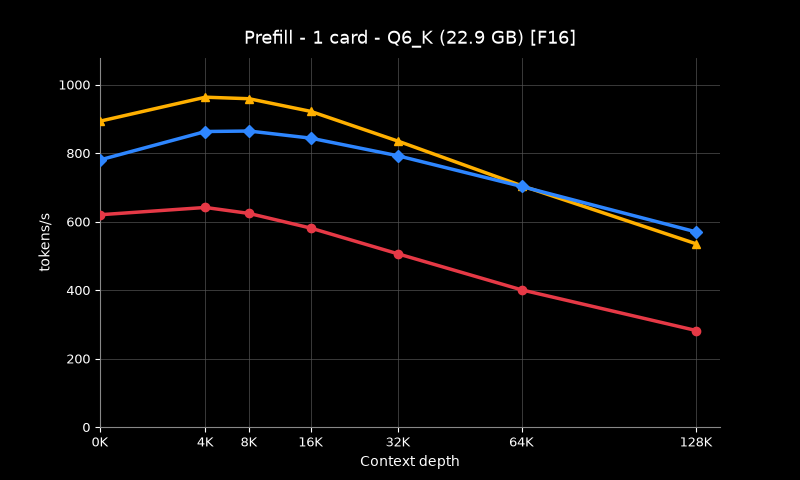
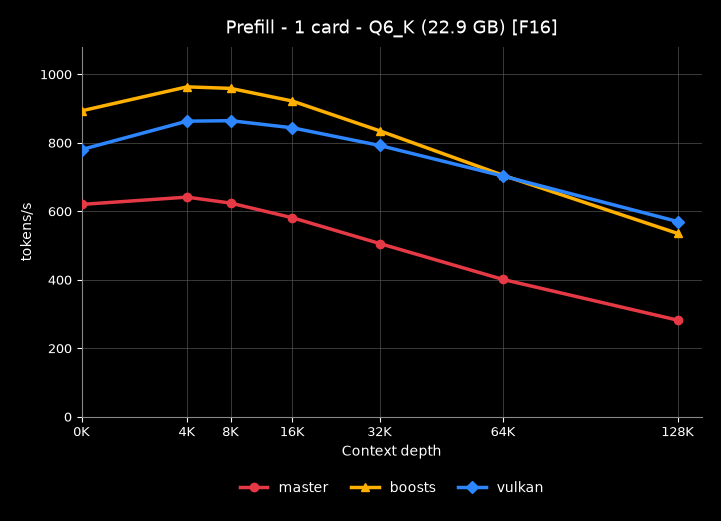
benchmarks: chart gallery + fix legend/dashed-line issues
Address three issues with the v2 charts:
1. Dashed lines removed. The dashed/solid was a leftover from the old
   6-series charts (where it separated f16 from bf16 within a chart).
   Now that each chart is single-KV and titled [F16]/[BF16], the dashed
   had no within-chart meaning. All lines are solid; the KV type is in
   the title.
2. Legend now always renders inside the PNG. It was being placed below
   the axis frame and clipped by the tight figure bounds. Added
   bbox_inches=tight + pad_inches so the red/amber/blue key (master/
   boosts/vulkan) is visible on every chart. Legend enlarged for clarity.
3. New graphs/ALL-CHARTS.md gallery page embedding all 16 charts in a
   grid (prefill/decode x 4 model sets x f16/bf16), plus README updated
   (dashed convention removed, points to the gallery) and v2-results.md
   Graphs section now links the gallery.

Assisted-by: pi

diff --git a/benchmarks/scripts/make-v2-graphs.py b/benchmarks/scripts/make-v2-graphs.py
@@ -17,8 +17,9 @@ Design:
 - y origin at 0 for prefill; decode uses a zoomed window so the tight
   C/D/V cluster is separated (its span is ~17-24 t/s, not 0..max).
 - 3 series, one per backend: master (red), boosts (amber), vulkan (blue).
-  The KV type is in the title; bf16 uses dashed lines to distinguish from
-  the f16 chart when compared side by side.
+  The KV type is in the title; all lines are solid (no dashed/solid
+  convention - the title already states the KV type). Legend sits below
+  the axis and is always rendered into the PNG.
 - black background, faint gridlines, matching the v1 graphs.
 
 Usage: python3 benchmarks/scripts/make-v2-graphs.py
@@ -90,11 +91,10 @@ def plot(metric, setname, set_suffix, title, kv):
     ax.set_facecolor("black")
 
     runs = load(None, setname, set_suffix, kv, metric)
-    ls = "--" if kv == "bf16" else "-"
     for bld, label, color, marker in SERIES:
         ys = [metric_value(runs[bld][d], metric) for d in DEPTHS]
-        ax.plot(X, ys, color=color, marker=marker, linestyle=ls,
-                linewidth=2.5, markersize=6, label=f"{label} ({kv})", zorder=3)
+        ax.plot(X, ys, color=color, marker=marker, linestyle="-",
+                linewidth=2.5, markersize=6, label=label, zorder=3)
 
     axe = f"{'Prefill' if metric=='pp' else 'Decode'} - {title} [{kv.upper()}]"
     ax.set_title(axe, color="white", fontsize=13, pad=10)
@@ -122,12 +122,15 @@ def plot(metric, setname, set_suffix, title, kv):
     for spine in ("left", "bottom"):
         ax.spines[spine].set_color("#888888")
 
-    ax.legend(loc="upper center", bbox_to_anchor=(0.5, -0.16), ncol=3,
-              frameon=False, labelcolor="white", fontsize=9,
-              columnspacing=1.4, handletextpad=0.6)
+    # legend inside the saved image, below the axis frame, always rendered
+    # (bbox_inches=tight below guarantees it is not clipped).
+    ax.legend(loc="upper center", bbox_to_anchor=(0.5, -0.14), ncol=3,
+              frameon=False, labelcolor="white", fontsize=10,
+              columnspacing=1.6, handletextpad=0.8)
     os.makedirs(OUT, exist_ok=True)
     path = os.path.join(OUT, f"v2-{metric}-{setname}-{kv}.png")
-    fig.savefig(path, dpi=100, facecolor="black")
+    fig.savefig(path, dpi=100, facecolor="black",
+                bbox_inches="tight", pad_inches=0.2)
     plt.close(fig)
     print(path)
 

diff --git a/benchmarks/graphs/README.md b/benchmarks/graphs/README.md
@@ -6,10 +6,15 @@ type so each compares the three backends (master / boosts / vulkan) at a
 single KV type — 3 series per chart, not 6, so the tight decode cluster is
 legible.
 
-Conventions:
-- **Colors**: red = master, amber = boosts, blue = vulkan.
-- **Line style**: solid = f16 KV, dashed = bf16 KV (so the f16 and bf16
-  charts of a given set line up when viewed side by side).
+**View them all on one page: [ALL-CHARTS.md](ALL-CHARTS.md)**, which
+embeds the full 16-chart grid (prefill/decode × 4 model sets × f16/bf16).
+
+## Conventions
+
+- **Colors**: red = master, amber = boosts, blue = vulkan. The same
+  color key is in every chart's legend (below the axis frame).
+- **Line style**: all lines are solid. The KV type is stated in the
+  title (`[F16]` or `[BF16]`), so there is no dashed/solid convention.
 - **Depth axis**: sqrt-scaled, labeled with the real context depth
   (0K/4K/8K/16K/32K/64K/128K). The depths are heavily non-linear; sqrt
   spreads the shallow anchors while keeping the deep end readable.
@@ -32,15 +37,7 @@ Conventions:
 - `v2-tg-1Q6-f16.png`: the mirror. on Q6_K (weaker VDR boost) vulkan
   edges boosts by ~1% at every depth; both above master.
 
-## All 16
+## File naming
 
-| set | metric | f16 | bf16 |
-|-----|--------|-----|------|
-| 1 card Q6_K (22.9 GB) | prefill | v2-pp-1Q6-f16.png | v2-pp-1Q6-bf16.png |
-| | decode | v2-tg-1Q6-f16.png | v2-tg-1Q6-bf16.png |
-| 1 card Q4_K_XL (17.6 GB) | prefill | v2-pp-1Q4-f16.png | v2-pp-1Q4-bf16.png |
-| | decode | v2-tg-1Q4-f16.png | v2-tg-1Q4-bf16.png |
-| 2 cards Q8_0 (29 GB) | prefill | v2-pp-2c-f16.png | v2-pp-2c-bf16.png |
-| | decode | v2-tg-2c-f16.png | v2-tg-2c-bf16.png |
-| 3 cards Q8_0 (29 GB) | prefill | v2-pp-3c-f16.png | v2-pp-3c-bf16.png |
-| | decode | v2-tg-3c-f16.png | v2-tg-3c-bf16.png |
+`v2-{metric}-{set}-{kv}.png` where metric = `pp` (prefill) or `tg`
+(decode), set = `1Q6` / `1Q4` / `2c` / `3c`, kv = `f16` / `bf16`.

diff --git a/benchmarks/graphs/ALL-CHARTS.md b/benchmarks/graphs/ALL-CHARTS.md
@@ -1,0 +1,51 @@
+<!-- v2 llama-benchy graph gallery - ALL charts on one page -->
+
+# v2 throughput graphs — all charts
+
+Full gallery for the v2 llama-benchy suite. 16 charts, split by KV cache
+type (f16 / bf16). Each chart compares the three backends at one KV type:
+**red = master, amber = boosts, blue = vulkan** (legend below every axis).
+
+Conventions:
+- **Prefill** (top row of each group): y origin at 0, wide range.
+- **Decode** (bottom row): zoomed y-window (~17-30 t/s) so the tight
+  ~1% backend separation is legible.
+- **Depth axis**: sqrt-scaled, labeled with the real context depth
+  (0K/4K/8K/16K/32K/64K/128K). Non-linear; sqrt spreads the shallow
+  anchors while keeping the deep end readable.
+- All lines solid; the KV type is in each title.
+
+Methodology & numbers: [`benchy-methodology.md`](../benchy-methodology.md) ·
+[`v2-results.md`](../v2-results.md). Generator:
+[`make-v2-graphs.py`](../scripts/make-v2-graphs.py) (reads raw JSON, no
+hardcoded values).
+
+---
+
+## 1 card — Q6_K (22.9 GB)
+
+| f16 | bf16 |
+|-----|------|
+| ![prefill f16](v2-pp-1Q6-f16.png) | ![prefill bf16](v2-pp-1Q6-bf16.png) |
+| ![decode f16](v2-tg-1Q6-f16.png) | ![decode bf16](v2-tg-1Q6-bf16.png) |
+
+## 1 card — Q4_K_XL (17.6 GB)
+
+| f16 | bf16 |
+|-----|------|
+| ![prefill f16](v2-pp-1Q4-f16.png) | ![prefill bf16](v2-pp-1Q4-bf16.png) |
+| ![decode f16](v2-tg-1Q4-f16.png) | ![decode bf16](v2-tg-1Q4-bf16.png) |
+
+## 2 cards — Q8_0 (29 GB)
+
+| f16 | bf16 |
+|-----|------|
+| ![prefill f16](v2-pp-2c-f16.png) | ![prefill bf16](v2-pp-2c-bf16.png) |
+| ![decode f16](v2-tg-2c-f16.png) | ![decode bf16](v2-tg-2c-bf16.png) |
+
+## 3 cards — Q8_0 (29 GB)
+
+| f16 | bf16 |
+|-----|------|
+| ![prefill f16](v2-pp-3c-f16.png) | ![prefill bf16](v2-pp-3c-bf16.png) |
+| ![decode f16](v2-tg-3c-f16.png) | ![decode bf16](v2-tg-3c-bf16.png) |

diff --git a/benchmarks/v2-results.md b/benchmarks/v2-results.md
@@ -78,10 +78,10 @@ baseline approach.
 
 ## Graphs
 
-Full set (16 charts, split by KV type) in [graphs/README.md](graphs/README.md),
-regenerated from the raw JSON by `scripts/make-v2-graphs.py`. Each chart
-compares the three backends at one KV type (3 series, not 6):
-`![decode bf16 - 1 card Q6_K](graphs/v2-tg-1Q6-bf16.png)`
+**All 16 charts on one page: [graphs/ALL-CHARTS.md](graphs/ALL-CHARTS.md)**
+(regenerated from the raw JSON by `scripts/make-v2-graphs.py`). Each chart
+compares the three backends at one KV type (3 series, not 6); the legend
+under every axis is **red = master, amber = boosts, blue = vulkan**.
 
 ![decode bf16 - 1 card Q6_K](graphs/v2-tg-1Q6-bf16.png)
 ![decode bf16 - 3 cards Q8_0](graphs/v2-tg-3c-bf16.png)
